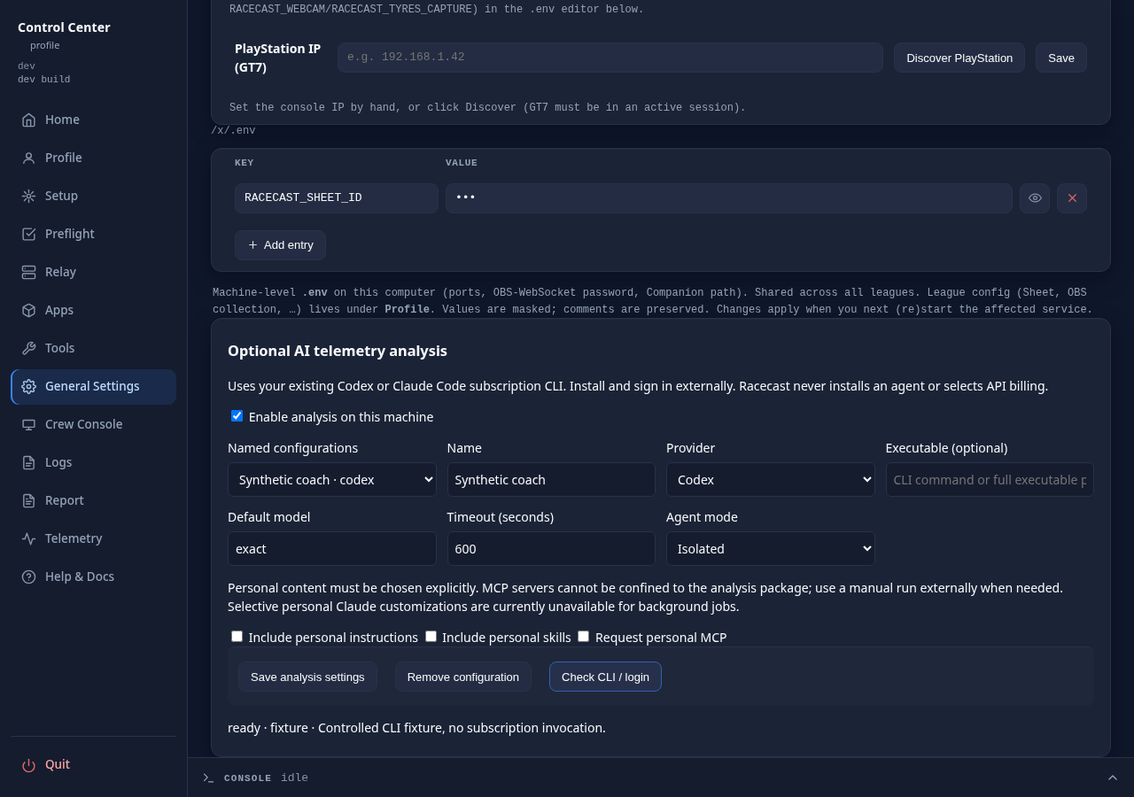
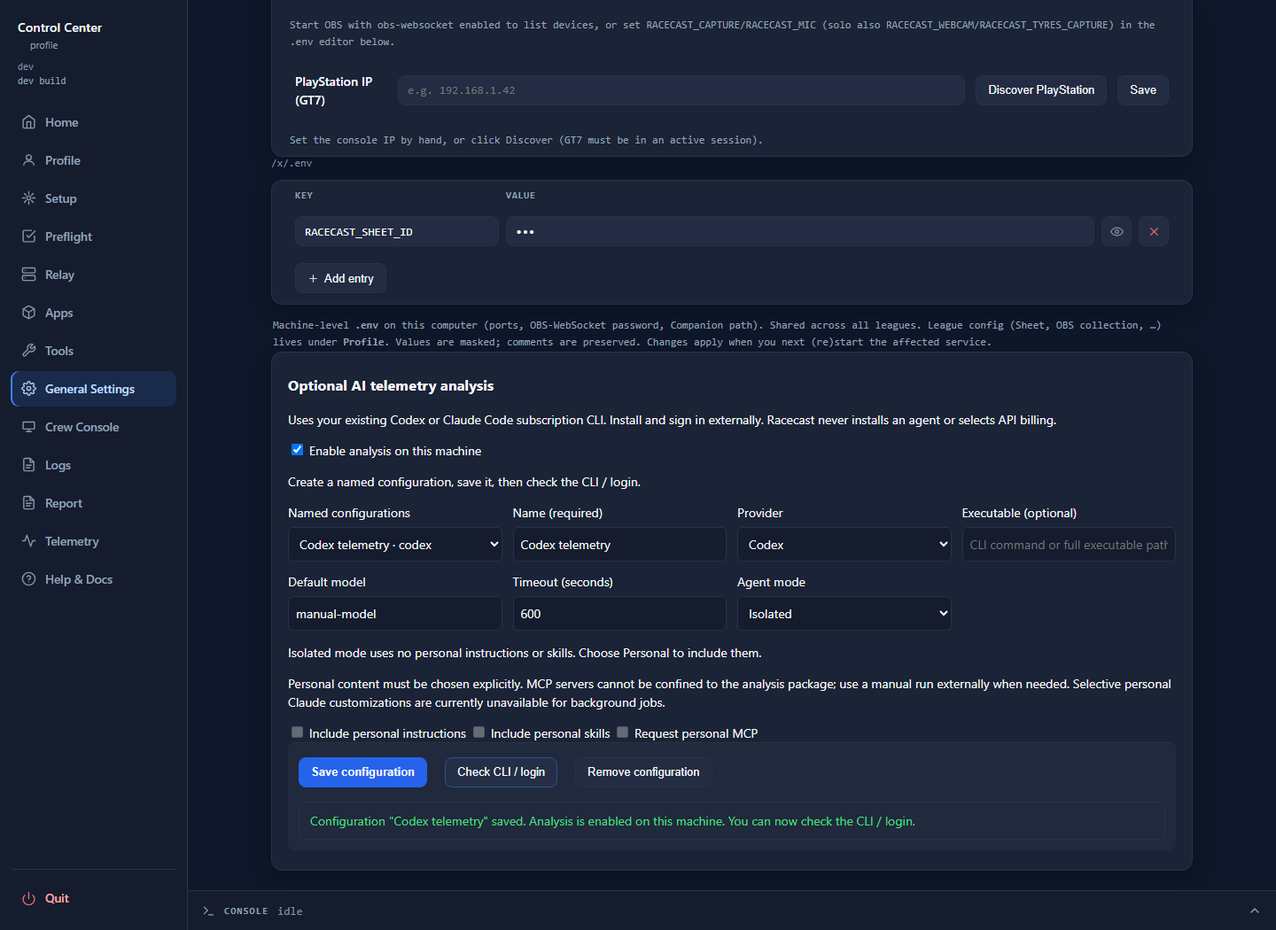
fix(ai): clarify configuration saving and support full-session packages

diff --git a/src/ui/ai-analysis.js b/src/ui/ai-analysis.js
@@ -1,7 +1,7 @@
 /* Optional post-session analysis. Provider text is always displayed as text. */
 (() => {
 'use strict';
-const state={settings:null,profile:null,generation:0,preview:null,selection:null,job:null,lastJob:null};
+const state={settings:null,settingsDirty:false,settingsBusy:false,models:{},profile:null,generation:0,preview:null,selection:null,job:null,lastJob:null};
 const $id=id=>document.getElementById(id);
 const node=(tag,text,parent)=>{const e=document.createElement(tag);if(text!=null)e.textContent=text;if(parent)parent.append(e);return e;};
 const error=doc=>doc?.error?.message||'Analysis operation failed';
@@ -16,23 +16,58 @@ function say(id,text){$id(id).textContent=text||'';}
 function option(select,value,label){const o=new Option(label,value);select.append(o);}
 function invalidate(){state.generation++;state.preview=null;$id('ai-start').disabled=true;$id('ai-export-preview').disabled=true;say('ai-preview','Selection changed. Prepare and inspect a new preview.');}
 function personal(){return {instructions:$id('ai-instructions').checked,skills:$id('ai-skills').checked,mcp:$id('ai-mcp').checked};}
+function modelSuggestions(){
+ for(const [listId,agentId,provider] of [
+  ['ai-model-suggestions',$id('ai-configs').value,$id('ai-provider').value],
+  ['ai-run-model-suggestions',$id('ai-agent').value,state.settings?.agents.find(a=>a.id===$id('ai-agent').value)?.provider]
+ ]){
+  const list=$id(listId),cached=state.models[agentId];list.textContent='';
+  if(cached&&cached.provider===provider)cached.models.forEach(m=>option(list,m,m));
+ }
+}
+function settingsStatus(text,kind='info'){
+ const status=$id('ai-settings-status');status.textContent=text;status.dataset.kind=kind;
+}
+function settingsControls(){
+ const selected=!!$id('ai-configs').value;
+ $id('ai-save').disabled=!state.settings||state.settingsBusy;
+ $id('ai-save').textContent=state.settingsBusy?'Saving…':selected?'Save configuration':'Save new configuration';
+ $id('ai-remove').disabled=!selected||state.settingsBusy;
+ $id('ai-check').disabled=!selected||state.settingsDirty||state.settingsBusy;
+ const supported=$id('ai-mode').value==='personal'&&$id('ai-provider').value==='codex';
+ ['instructions','skills','mcp'].forEach(k=>{
+  const input=$id('ai-'+k);input.disabled=state.settingsBusy||!supported||k==='mcp';
+  if(!supported||k==='mcp')input.checked=false;
+ });
+ say('ai-mode-help',$id('ai-mode').value==='isolated'?'Isolated mode uses no personal instructions or skills. Choose Personal to include them.':supported?'Choose which personal instructions and skills to include.':'Personal Claude instructions and skills are unavailable for background analysis.');
+}
+function settingsChanged(){
+ state.settingsDirty=true;settingsControls();settingsStatus('Unsaved changes. Save before checking the CLI.','pending');say('ai-probe','');
+}
 function populateConfig(config={}){
  $id('ai-name').value=config.name||'';$id('ai-provider').value=config.provider||'codex';$id('ai-executable').value=config.executable||'';
  $id('ai-config-model').value=config.model||'';$id('ai-timeout').value=config.timeout||600;$id('ai-mode').value=config.mode||'isolated';
- ['instructions','skills','mcp'].forEach(k=>$id('ai-'+k).checked=!!config.personal?.[k]);say('ai-probe','');
+ ['instructions','skills','mcp'].forEach(k=>$id('ai-'+k).checked=!!config.personal?.[k]);say('ai-probe','');settingsControls();modelSuggestions();
 }
 async function settings(){
- const doc=await request('settings');if(!doc.ok){say('ai-settings-status',error(doc));return;}
- state.settings=doc;$id('ai-enabled').checked=doc.enabled;
- const select=$id('ai-configs'),selected=select.value;select.textContent='';option(select,'','New configuration');
- doc.agents.forEach(a=>option(select,a.id,a.name+' · '+a.provider));select.value=selected&&doc.agents.some(a=>a.id===selected)?selected:'';
- populateConfig(doc.agents.find(a=>a.id===select.value));refreshAgents();
+ const doc=await request('settings');if(!doc.ok){settingsStatus(error(doc),'error');return;}
+ renderSettings(doc,$id('ai-configs').value);
+ settingsStatus($id('ai-configs').value?'Saved configuration loaded.':'Enter a name, choose a provider, then save the configuration.');
 }
-function refreshAgents(){
+function renderSettings(doc,selected=''){
+ const previousProvider=state.settings?.agents.find(a=>a.id===$id('ai-agent').value)?.provider;
+ state.settingsDirty=false;
+ state.settings=doc;$id('ai-enabled').checked=doc.enabled;
+ const select=$id('ai-configs');select.textContent='';option(select,'','New configuration');
+ doc.agents.forEach(a=>option(select,a.id,a.name+' · '+a.provider));select.value=selected&&doc.agents.some(a=>a.id===selected)?selected:'';
+ populateConfig(doc.agents.find(a=>a.id===select.value));refreshAgents(previousProvider===doc.agents.find(a=>a.id===$id('ai-agent').value)?.provider);
+}
+function refreshAgents(preserveModel=true){
  const select=$id('ai-agent'),previous=select.value,model=$id('ai-model').value,chosen=select.value||state.settings?.last?.agent;select.textContent='';
  (state.settings?.agents||[]).forEach(a=>option(select,a.id,a.name+' · '+a.provider));
  if(chosen&&state.settings.agents.some(a=>a.id===chosen))select.value=chosen;
- const agent=state.settings?.agents.find(a=>a.id===select.value);$id('ai-model').value=previous===select.value&&model?model:(state.settings?.last?.agent===select.value?state.settings.last.model:null)||agent?.model||'';
+ const agent=state.settings?.agents.find(a=>a.id===select.value);$id('ai-model').value=preserveModel&&previous===select.value&&model?model:(state.settings?.last?.agent===select.value?state.settings.last.model:null)||agent?.model||'';
+ modelSuggestions();
  $id('ai-load-selection').disabled=!state.settings?.enabled;
  if(!previous&&state.settings?.last?.template)$id('ai-template').value=state.settings.last.template;
  invalidate();
@@ -40,24 +75,36 @@ function refreshAgents(){
  say('ai-disabled',state.settings?.enabled?'':'Optional AI analysis is disabled. Enable it in General Settings. Existing telemetry and saved analyses remain available.');
 }
 async function saveSettings(remove=false){
- if(!state.settings)return;
+ if(!state.settings||state.settingsBusy)return;
  const selected=$id('ai-configs').value,doc=structuredClone(state.settings);delete doc.ok;let savedId=selected;
+ const name=$id('ai-name').value.trim();
+ if(!remove&&!name){settingsStatus('Enter a configuration name before saving.','error');$id('ai-name').focus();return;}
+ if(!remove&&!$id('ai-timeout').checkValidity()){settingsStatus('Timeout must be a whole number from 10 to 3600 seconds.','error');$id('ai-timeout').focus();return;}
  if(remove){if(!selected)return;doc.agents=doc.agents.filter(a=>a.id!==selected);if(doc.last?.agent===selected)doc.last={};}
- else if($id('ai-name').value.trim()){
+ else {
   const id=selected||'agent-'+crypto.randomUUID();
   const configuration={id,name:$id('ai-name').value.trim(),provider:$id('ai-provider').value,executable:$id('ai-executable').value.trim(),model:$id('ai-config-model').value.trim(),timeout:Number($id('ai-timeout').value),mode:$id('ai-mode').value,personal:personal()};
+  if(doc.last?.agent===id&&doc.agents.find(a=>a.id===id)?.provider!==configuration.provider)delete doc.last.model;
   doc.agents=doc.agents.filter(a=>a.id!==id);doc.agents.push(configuration);savedId=id;
  }
  doc.enabled=$id('ai-enabled').checked;
- const result=await request('settings',doc);say('ai-settings-status',result.ok?'Analysis settings saved.':error(result));
- if(result.ok){state.settings=result;await settings();if(savedId&&result.agents.some(a=>a.id===savedId)){$id('ai-configs').value=savedId;populateConfig(result.agents.find(a=>a.id===savedId));}invalidate();}
+ state.settingsBusy=true;
+ const fields=[...$id('ai-settings').querySelectorAll('input,select')];fields.forEach(e=>e.disabled=true);settingsControls();settingsStatus('Saving analysis settings…','pending');
+ const result=await request('settings',doc);
+ state.settingsBusy=false;fields.forEach(e=>e.disabled=false);
+ if(result.ok){renderSettings(result,remove?'':savedId);settingsStatus(remove?'Configuration removed.':'Configuration "'+name+'" saved. Analysis is '+(result.enabled?'enabled':'disabled')+' on this machine. You can now check the CLI / login.','success');}
+ else {settingsControls();settingsStatus('Could not save: '+error(result),'error');}
 }
 async function probe(){
  const id=$id('ai-configs').value;if(!id){say('ai-probe','Save a named configuration before checking its CLI.');return;}
+ if(state.settingsDirty||state.settingsBusy)return;
+ const provider=$id('ai-provider').value;
  say('ai-probe','Checking installed CLI and existing subscription login…');
  const result=await request('probe',{query:{id}});
+ if(result.ok)state.models[id]={provider,models:result.model_suggestions||[]};
+ modelSuggestions();
+ if(id!==$id('ai-configs').value||provider!==$id('ai-provider').value||state.settingsDirty)return;
  say('ai-probe',result.ok?result.status+' · '+(result.version||'version unavailable')+(result.guidance?' · '+result.guidance:''):error(result));
- const list=$id('ai-model-suggestions');list.textContent='';(result.model_suggestions||[]).forEach(m=>option(list,m,m));
 }
 async function selection(){
  if(!state.settings)await settings();
@@ -171,23 +218,27 @@ function init(){
  const settingsCard=node('section',null,document.querySelector('[data-view="settings"]'));settingsCard.id='ai-settings';settingsCard.className='card rcai';
  settingsCard.innerHTML=`<h3>Optional AI telemetry analysis</h3><p>Uses your existing Codex or Claude Code subscription CLI. Install and sign in externally. Racecast never installs an agent or selects API billing.</p>
  <label><input id="ai-enabled" type="checkbox"> Enable analysis on this machine</label>
- <div class="rcai-grid"><label>Named configurations<select id="ai-configs"></select></label><label>Name<input id="ai-name"></label><label>Provider<select id="ai-provider"><option value="codex">Codex</option><option value="claude">Claude Code</option></select></label><label>Executable (optional)<input id="ai-executable" placeholder="CLI command or full executable path"></label><label>Default model<input id="ai-config-model" list="ai-model-suggestions"></label><label>Timeout (seconds)<input id="ai-timeout" type="number" min="10" max="3600" value="600"></label><label>Agent mode<select id="ai-mode"><option value="isolated">Isolated</option><option value="personal">Personal</option></select></label></div>
+ <p>Create a named configuration, save it, then check the CLI / login.</p>
+ <div class="rcai-grid"><label>Named configurations<select id="ai-configs"></select></label><label>Name (required)<input id="ai-name" maxlength="200" placeholder="e.g. Codex telemetry"></label><label>Provider<select id="ai-provider"><option value="codex">Codex</option><option value="claude">Claude Code</option></select></label><label>Executable (optional)<input id="ai-executable" placeholder="CLI command or full executable path"></label><label>Default model<input id="ai-config-model" list="ai-model-suggestions" placeholder="Exact model name for this provider"></label><label>Timeout (seconds)<input id="ai-timeout" type="number" min="10" max="3600" step="1" value="600" required></label><label>Agent mode<select id="ai-mode"><option value="isolated">Isolated</option><option value="personal">Personal</option></select></label></div>
+ <p id="ai-mode-help"></p>
  <p>Personal content must be chosen explicitly. MCP servers cannot be confined to the analysis package; use a manual run externally when needed. Selective personal Claude customizations are currently unavailable for background jobs.</p>
  <label><input id="ai-instructions" type="checkbox"> Include personal instructions</label> <label><input id="ai-skills" type="checkbox"> Include personal skills</label> <label><input id="ai-mcp" type="checkbox"> Request personal MCP</label>
- <div class="row"><button id="ai-save">Save analysis settings</button><button id="ai-remove">Remove configuration</button><button id="ai-check">Check CLI / login</button></div><p id="ai-settings-status" role="status"></p><p id="ai-probe" role="status"></p><datalist id="ai-model-suggestions"></datalist>`;
+ <div class="row rcai-settings-actions"><button id="ai-save" disabled>Save new configuration</button><button id="ai-check" disabled>Check CLI / login</button><button id="ai-remove" disabled>Remove configuration</button><p id="ai-settings-status" role="status" aria-live="polite" aria-atomic="true"></p></div><p id="ai-probe" role="status"></p><datalist id="ai-model-suggestions"></datalist><datalist id="ai-run-model-suggestions"></datalist>`;
  const card=node('section',null,document.querySelector('[data-view="telemetry"]'));card.id='ai-analysis';card.className='card rcai';
  card.innerHTML=`<h3>Post-session AI analysis</h3><p id="ai-disabled"></p><div class="row"><button id="ai-load-selection">Prepare analysis selection</button><button id="ai-history-refresh">Refresh history</button></div><div id="ai-controls" hidden>
- <p id="ai-selection-status" role="status"></p><div class="rcai-grid"><label>Completed GT7 session<select id="ai-session"></select></label><label>Template<select id="ai-template"><option value="session-overview">Session overview</option><option value="driving-technique">Driving technique</option><option value="consistency">Consistency</option></select></label><label>Agent<select id="ai-agent"></select></label><label>Model<input id="ai-model" list="ai-model-suggestions"></label><label>Report language<input id="ai-language" value="en" maxlength="40"></label></div>
+ <p id="ai-selection-status" role="status"></p><div class="rcai-grid"><label>Completed GT7 session<select id="ai-session"></select></label><label>Template<select id="ai-template"><option value="session-overview">Session overview</option><option value="driving-technique">Driving technique</option><option value="consistency">Consistency</option></select></label><label>Agent<select id="ai-agent"></select></label><label>Model<input id="ai-model" list="ai-run-model-suggestions"></label><label>Report language<input id="ai-language" value="en" maxlength="40"></label></div>
  <h4>Completed laps</h4><div id="ai-laps" class="rcai-options"></div><h4>Optional compatible references · none selected automatically</h4><div id="ai-references" class="rcai-options"></div><div class="rcai-grid"><label>Practice goal<textarea id="ai-goal" maxlength="4000"></textarea></label><label>Additional questions<textarea id="ai-questions" maxlength="4000"></textarea></label></div>
  <div class="row"><button id="ai-preview-button" disabled>Preview selected data</button><button id="ai-export-preview" disabled>Export preview package</button><button id="ai-start" disabled>Start this analysis</button></div><div id="ai-preview"></div></div>
  <p>One analysis can run on this machine. Subscription quota/model availability are not guaranteed. Cancellation cannot recover already consumed quota.</p><div class="row"><button id="ai-cancel" disabled>Cancel active analysis</button></div><p id="ai-run-status" role="status"></p><h4>Saved analysis history</h4><div id="ai-history"></div><div id="ai-report"></div>`;
  const style=node('style',`.rcai{overflow-wrap:anywhere}.rcai-grid{display:grid;grid-template-columns:repeat(auto-fit,minmax(200px,1fr));gap:12px;margin:14px 0}.rcai-grid label{display:flex;flex-direction:column;gap:6px;min-width:0}.rcai input:not([type=checkbox]),.rcai select,.rcai textarea{width:100%;min-width:0;padding:8px;background:var(--card2);color:var(--txt);border:1px solid var(--line);border-radius:6px;font:inherit}.rcai textarea{min-height:80px}.rcai-options{display:flex;flex-wrap:wrap;gap:12px}.rcai pre{white-space:pre-wrap;font-size:12px}.rcai article{border-top:1px solid var(--line);padding-top:10px}.rcai button{margin:4px}`);document.head.append(style);
-  $id('ai-mode').onchange=()=>{if($id('ai-mode').value==='isolated')['instructions','skills','mcp'].forEach(k=>$id('ai-'+k).checked=false);};
- $id('ai-configs').onchange=()=>populateConfig(state.settings?.agents.find(a=>a.id===$id('ai-configs').value));
+ node('style',`#ai-save{background:var(--accent-strong);border-color:var(--accent-strong);font-weight:600}.rcai-settings-actions #ai-settings-status{flex-basis:100%;margin:0 4px;padding:10px 12px;border:1px solid var(--line);border-radius:6px}.rcai-settings-actions [data-kind=error]{color:var(--bad-text);border-color:var(--bad)!important}.rcai-settings-actions [data-kind=success]{color:#4ADE80}.rcai-settings-actions [data-kind=pending]{color:#FCD34D}.rcai input:disabled{opacity:.5}`,document.head);
+ $id('ai-settings').querySelectorAll('input,select').forEach(e=>{if(e.id!=='ai-configs')e.addEventListener(e.tagName==='SELECT'||e.type==='checkbox'?'change':'input',settingsChanged);});
+ $id('ai-provider').addEventListener('change',()=>{$id('ai-config-model').value='';modelSuggestions();});
+ $id('ai-configs').onchange=()=>{state.settingsDirty=false;populateConfig(state.settings?.agents.find(a=>a.id===$id('ai-configs').value));settingsStatus($id('ai-configs').value?'Saved configuration loaded.':'Enter a name, choose a provider, then save the configuration.');};
  $id('ai-save').onclick=()=>saveSettings();$id('ai-remove').onclick=()=>saveSettings(true);$id('ai-check').onclick=probe;
  $id('ai-load-selection').onclick=selection;$id('ai-session').onchange=renderLaps;$id('ai-preview-button').onclick=preview;$id('ai-start').onclick=start;$id('ai-export-preview').onclick=exportPreview;$id('ai-cancel').onclick=cancel;$id('ai-history-refresh').onclick=history;
  ['ai-model','ai-template','ai-goal','ai-questions','ai-language'].forEach(id=>$id(id).oninput=invalidate);
- $id('ai-agent').onchange=()=>{const a=state.settings?.agents.find(a=>a.id===$id('ai-agent').value);$id('ai-model').value=a?.model||'';invalidate();};
+ $id('ai-agent').onchange=()=>{const a=state.settings?.agents.find(a=>a.id===$id('ai-agent').value);$id('ai-model').value=a?.model||'';modelSuggestions();invalidate();};
  window.RacecastAI={settings,selection,reset,status,history};settings().then(()=>{if(tmState.profile&&currentView==='telemetry'){status();history();}});
  setInterval(()=>{if(currentView==='telemetry')status();},1500);
 }

diff --git a/tests/test_ai_reports.py b/tests/test_ai_reports.py
@@ -48,6 +48,46 @@ def setup(root,reference=False):
     return s,p,run,store
 
 
+def t_full_session_package_survives_snapshot_history_and_export():
+    with tempfile.TemporaryDirectory() as d:
+        root=Path(d);profile=root/'profile'
+        rows=[]
+        for lap in range(1,21):
+            row=fixtures.row(lap,time=120+lap/100)
+            row['length_m']=12000
+            row['trace']=[dict(d=i*5,t=row['time_s']*i/2400,
+                speed_kmh=150.123,throttle=80.456,brake=0.123,
+                steer=0.456,gear=4,x=i*1.234,z=i*2.345) for i in range(2401)]
+            rows.append(row)
+        source=fixtures.source(profile/'telemetry-recordings',rows)
+        package=ai_package.build(source,1)
+        assert len(package['laps'])==20
+        assert sum(len(lap['trace']) for lap in package['laps'])==48020
+        for lap,row in zip(package['laps'],rows,strict=True):
+            assert lap['trace']==row['trace']
+            assert lap['metrics']['time_s']==row['time_s']
+        prepared=root/'prepared'
+        for provider in ai_package.LIMITS:
+            manifest=ai_package.preview(package,provider)
+            assert ai_jobs.MAX_OUTPUT_BYTES < manifest['detail_bytes'] < ai_package.MAX_DETAIL_BYTES
+        ai_package.write(package,prepared,'codex')
+        store=r.Store(profile,'profile',root/'machine',lambda _name:source)
+        job_id='a'*32
+        directory=store.base/source.identity/job_id;directory.mkdir(parents=True)
+        ai_jobs.snapshot_package(prepared,directory/'package',package)
+        assert r.read_package(directory,profile)==package
+        hashes={p.name:hashlib.sha256(p.read_bytes()).hexdigest() for p in prepared.iterdir()}
+        run={'profile':'profile','id':job_id,'input_file_fingerprints':hashes}
+        (directory/'run.json').write_text(json.dumps(run),encoding='utf-8')
+        r.verify_input_files(directory,profile,run,required=True)
+        assert len(r.validate(result(package),package)['exercises'])==3
+        for archive in (r.export_package(package,'claude'),store.export(job_id,'package')['bytes']):
+            with zipfile.ZipFile(io.BytesIO(archive)) as exported:
+                assert json.loads(exported.read('detail.json'))==package
+        # Larger input bounds must not relax the provider's output bound.
+        jobs.error(lambda:ai_jobs.regular_output_bytes(prepared/'detail.json'),'invalid_output')
+
+
 def t_schema_measurement_reference_and_priorities():
     with tempfile.TemporaryDirectory() as d:
         s=fixtures.source(Path(d)/'telemetry-recordings');p=ai_package.build(s,1);valid=result(p)

diff --git a/src/scripts/ai_reports.py b/src/scripts/ai_reports.py
@@ -245,14 +245,17 @@ def _nonfinite(value):
     raise ValueError("Non-finite artifact JSON")
 
 
-def _read(path, root):
+def _read(path, root, *, max_bytes=ai_jobs.MAX_OUTPUT_BYTES):
     path = Path(path)
     if not path.resolve().is_relative_to(Path(root).resolve()):
         raise ReportError(
             "invalid_artifact", "Analysis artifact leaves the active profile"
         )
     try:
-        return json.loads(ai_jobs.regular_output_bytes(path), parse_constant=_nonfinite)
+        return json.loads(
+            ai_jobs.regular_output_bytes(path, max_bytes=max_bytes),
+            parse_constant=_nonfinite,
+        )
     except (ValueError, OSError, ai_jobs.JobError) as e:
         raise ReportError(
             "invalid_artifact", "Analysis artifact is not valid bounded local JSON"
@@ -260,7 +263,10 @@ def _read(path, root):
 
 
 def read_package(directory, root):
-    package = _read(Path(directory) / "package/detail.json", root)
+    package = _read(
+        Path(directory) / "package/detail.json", root,
+        max_bytes=ai_package.MAX_DETAIL_BYTES,
+    )
     if not isinstance(package, dict):
         raise ReportError("invalid_artifact", "Input package is not an object")
     expected = copy.deepcopy(package)
@@ -286,7 +292,8 @@ def verify_input_files(directory, root, run, required=False):
                 "invalid_artifact", "Input file leaves the active profile"
             )
         try:
-            actual = hashlib.sha256(ai_jobs.regular_output_bytes(path)).hexdigest()
+            limit = ai_package.MAX_DETAIL_BYTES if name == "detail.json" else ai_jobs.MAX_OUTPUT_BYTES
+            actual = hashlib.sha256(ai_jobs.regular_output_bytes(path, max_bytes=limit)).hexdigest()
         except (OSError, ai_jobs.JobError) as e:
             raise ReportError("invalid_artifact", "Input file is unavailable") from e
         if actual != digest:
@@ -429,7 +436,11 @@ class Store:
             )
             read_package(directory, self.root)
             files = {
-                name: ai_jobs.regular_output_bytes(directory / "package" / name)
+                name: ai_jobs.regular_output_bytes(
+                    directory / "package" / name,
+                    max_bytes=ai_package.MAX_DETAIL_BYTES
+                    if name == "detail.json" else ai_jobs.MAX_OUTPUT_BYTES,
+                )
                 for name in (
                     "detail.json",
                     "summary.md",

diff --git a/src/scripts/ai_jobs.py b/src/scripts/ai_jobs.py
@@ -334,7 +334,8 @@ def snapshot_package(prepared, destination, frozen):
     files = {}
     for name in names:
         p = prepared / name
-        if p.is_symlink() or not p.is_file() or p.stat().st_size > 2 * 1024 * 1024:
+        limit = ai_package.MAX_DETAIL_BYTES if name == "detail.json" else 2 * 1024 * 1024
+        if p.is_symlink() or not p.is_file() or p.stat().st_size > limit:
             raise JobError(
                 "invalid_package",
                 "Prepared package files must be bounded regular files",
@@ -359,7 +360,7 @@ def snapshot_package(prepared, destination, frozen):
         (destination / name).write_bytes(raw)
 
 
-def regular_output_bytes(path):
+def regular_output_bytes(path, *, max_bytes=MAX_OUTPUT_BYTES):
     path = Path(path)
     if path.is_symlink():
         raise JobError("invalid_output", "Provider result cannot be a symlink")
@@ -377,14 +378,14 @@ def regular_output_bytes(path):
         if (
             not stat.S_ISREG(st.st_mode)
             or st.st_nlink != 1
-            or st.st_size > MAX_OUTPUT_BYTES
+            or st.st_size > max_bytes
         ):
             raise JobError(
                 "invalid_output",
                 "Provider result must be a bounded unlinked regular file",
             )
-        raw = f.read(MAX_OUTPUT_BYTES + 1)
-        if len(raw) > MAX_OUTPUT_BYTES:
+        raw = f.read(max_bytes + 1)
+        if len(raw) > max_bytes:
             raise JobError("invalid_output", "Provider result exceeds the output bound")
         return raw
 

diff --git a/src/scripts/ai_package.py b/src/scripts/ai_package.py
@@ -16,9 +16,10 @@ import gt7_recording
 PACKAGE_VERSION = 1
 CALCULATION_VERSION = "selection-and-section-deltas-v1"
 TEMPLATES = ("driving-technique", "consistency", "session-overview")
+MAX_DETAIL_BYTES = 8 * 1024 * 1024
 LIMITS = {
-    "codex": {"summary_bytes": 48000, "detail_bytes": 1000000, "laps": 40},
-    "claude": {"summary_bytes": 40000, "detail_bytes": 800000, "laps": 30},
+    "codex": {"summary_bytes": 48000, "detail_bytes": MAX_DETAIL_BYTES, "laps": 40},
+    "claude": {"summary_bytes": 40000, "detail_bytes": MAX_DETAIL_BYTES, "laps": 30},
 }
 TRACE_KEYS = {"d", "t", "speed_kmh", "throttle", "brake", "steer", "gear", "x", "z"}
 METRICS = (
@@ -845,7 +846,11 @@ def preview(package, provider):
     ):
         raise PackageError(
             "package_too_large",
-            "Selection exceeds the one-invocation package limit; select fewer laps/references or shorter notes",
+            "Selection exceeds the analysis package limit: "
+            f"detail {detail_size:,}/{limits['detail_bytes']:,} bytes; "
+            f"summary {summary_size:,}/{limits['summary_bytes']:,} bytes; "
+            f"laps/references {len(package['laps']) + len(package['references'])}/{limits['laps']}. "
+            "Select fewer laps/references or shorten context notes.",
         )
     return dict(
         version=1,

diff --git a/src/docs/design/ai-analysis-packages.md b/src/docs/design/ai-analysis-packages.md
@@ -60,10 +60,14 @@ The preview includes selected IDs, references, all included primary/reference
 context and notes, goals/questions, limitations, byte counts and an explicit
 subscription-cloud transmission statement. It never starts an agent.
 
-Conservative limits are 48 KB summary/1 MB detail/40 laps for Codex and
-40 KB summary/800 KB detail/30 laps for Claude, including references. These are
+Limits are 48 KB summary/8 MiB detail/40 laps for Codex and
+40 KB summary/8 MiB detail/30 laps for Claude, including references. All selected
+trace points retain their original values; no downsampling or rounding is used
+to fit the package. Input snapshot, history and export readers use the same detail
+bound; provider output retains its separate 4 MiB bound. These are
 application limits, not guarantees about provider context windows or entitlement.
-Oversize inputs require a smaller selection; no splitting or repair calls occur.
+Oversize errors report actual and allowed detail bytes, summary bytes and lap
+counts. Oversize inputs require a smaller selection; no splitting or repair calls occur.
 The selected report language defaults to the UI language and can be overridden.
 
 ## Review and runtime evidence

diff --git a/src/docs/wiki/Control-Center.md b/src/docs/wiki/Control-Center.md
@@ -521,6 +521,15 @@ the installed tool and existing subscription login without model inference. Mode
 suggestions depend on the installed CLI; you can enter an exact model name manually.
 The same provider can have multiple configurations.
 
+For a new configuration, enter a name and click **Save new configuration**.
+The message below the buttons confirms the saved name or explains a save error.
+Edits show **Unsaved changes**; **Check CLI / login** becomes available after saving.
+In **Isolated** mode, personal instructions and skills are disabled. To include
+them with Codex, choose **Personal** and select each option explicitly. Personal
+MCP and selective Claude customizations are unavailable for background analysis.
+Model suggestions belong to the checked configuration. Changing the provider
+clears the draft model so a Codex model is not carried into a Claude configuration.
+
 Install and sign in with the provider's own tools before using Racecast:
 [Codex authentication](https://developers.openai.com/codex/auth/) and
 [Claude Code authentication](https://code.claude.com/docs/en/authentication).
